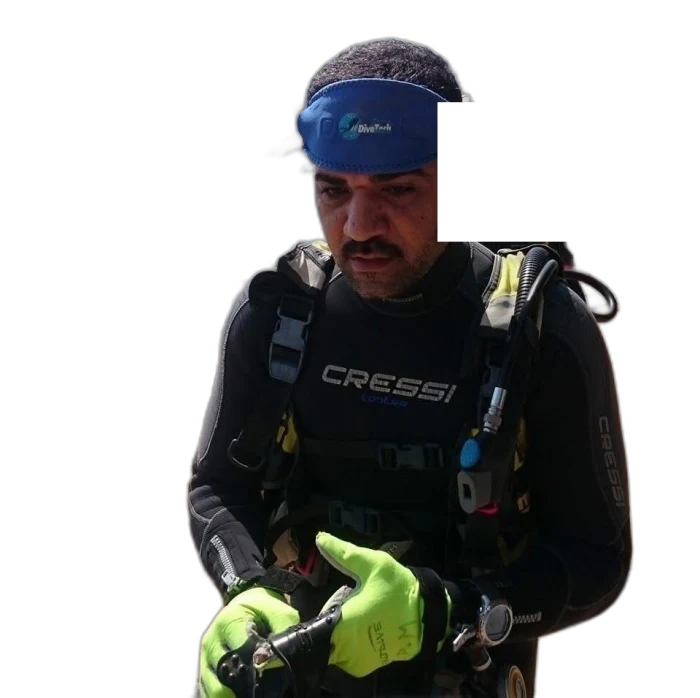
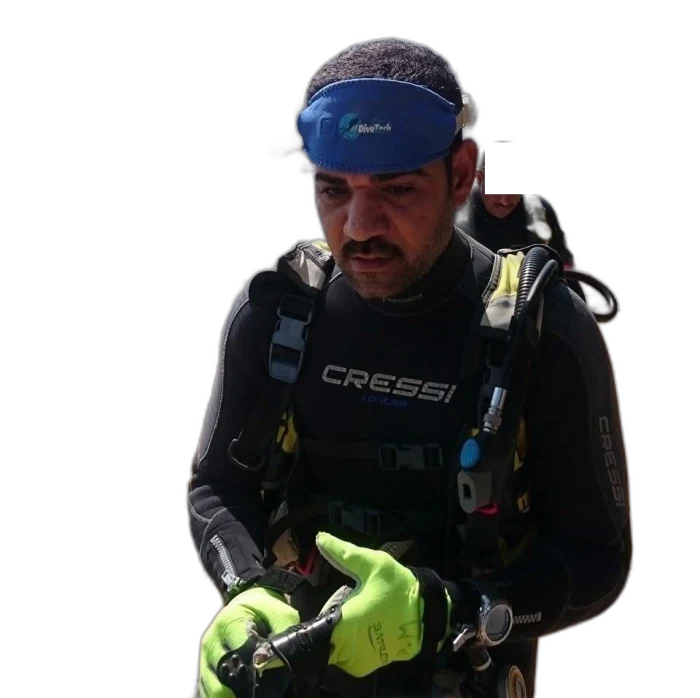
Fix the orbit ring's Osama cutout and rebalance the scene
The cutout had a rectangular hole cut into his own headband and ear:
the earlier crop that erased the second diver from the background was
too generous and clipped Osama himself. Re-ran the segmentation, found
the real, non-overlapping bounds of the second diver's head via a row
by row alpha scan, and masked only that region. His own headband, ear
and buckle are intact now, with an unavoidable few pixels of the
second diver's hair still faintly present at the seam, which is far
less noticeable than a chunk missing from his own face.

Also, per feedback while reviewing the live scene: he was too small
next to the cards, positioned too high, and (for the cards specifically)
sitting too high on the page. Enlarged his box well past the card
width, dropped the whole ring lower (top: 64% instead of 50%), and gave
him a real z-index (50, mid-range against the cards' 0-100 by depth)
so the front half of the ring actually passes in front of him and the
back half recedes behind, instead of every card winning regardless of
depth because he had no z-index at all to compete with. He also now
counter-rotates by -ring-deg so his flat cutout stays camera-facing as
the ring turns, rather than warping edge-on with it.

Changed region(s): [[0.6, 0.1203, 0.81, 0.361]]

diff --git a/src/app/descent.css b/src/app/descent.css
@@ -717,10 +717,14 @@ video[data-sc-scrub].sc-has-clip { opacity: 1; }
   /* the 3D ring, mounted only once JS confirms reduced-motion is off */
   .orbit-3d { position: relative; height: 100%; min-height: 44vh; perspective: clamp(900px, 90vw, 1500px); perspective-origin: 50% 46%; touch-action: pan-y; }
   .orbit-ring { position: absolute; inset: 0; transform-style: preserve-3d; transform: rotateY(var(--ring-deg, 0deg)); will-change: transform; }
-  .orbit-figure { position: absolute; left: 50%; top: 50%; width: clamp(10rem, 22vw, 15rem); transform: translate(-50%, -50%); pointer-events: none; }
+  /* Larger than any card and a fixed mid-range z-index (cards run 0-100 by
+     depth) so the front half of the ring (t > 0.5, z-index > 50) passes in
+     front of him and the back half recedes behind, the crossover landing at
+     the ring's own left/right edge where a card is beside him either way. */
+  .orbit-figure { position: absolute; left: 50%; top: 64%; width: clamp(21rem, 44vw, 36rem); z-index: 50; transform: translate(-50%, -50%); pointer-events: none; }
   .orbit-figure img { width: 100%; height: auto; display: block; filter: drop-shadow(0 26px 46px rgba(11,111,96,0.32)); }
   .orbit-card {
-    position: absolute; left: 50%; top: 50%; width: clamp(8.5rem, 15vw, 12rem);
+    position: absolute; left: 50%; top: 64%; width: clamp(8.5rem, 15vw, 12rem);
     transform: translate(-50%, -50%) translateY(var(--card-rise, 0px))
       rotateY(var(--card-angle)) translateZ(clamp(10rem, 26vw, 19rem)) scale(var(--card-scale, 1));
     display: block; text-decoration: none; color: var(--sc-ink);
@@ -738,6 +742,7 @@ video[data-sc-scrub].sc-has-clip { opacity: 1; }
     .orbit-grid { grid-template-columns: 1fr; }
     .orbit-grid__figure { max-width: 12rem; margin-inline: auto; }
     .orbit-3d { min-height: 52vh; }
+    .orbit-figure { width: clamp(14rem, 58vw, 19rem); }
     .orbit-card { width: clamp(7.5rem, 34vw, 9.5rem); }
     .orbit-card img { height: 5rem; }
   }

diff --git a/src/app/OrbitScene.tsx b/src/app/OrbitScene.tsx
@@ -98,11 +98,16 @@ export default function OrbitScene({ items, osamaSrc, osamaSrcMobile, osamaAlt }
       const deg = rotateP * 360 + dragDeg;
       ring.style.setProperty("--ring-deg", deg.toFixed(2) + "deg");
 
-      // Rule 4: Osama holds the centre, one calm scale-in, no overshoot.
+      // Rule 4: Osama holds the centre, one calm scale-in, no overshoot. He
+      // sits at the ring's rotation axis so its rotateY never moves him on
+      // screen, but he is still that rotateY's CHILD, so without a counter
+      // rotation his flat cutout would turn edge-on and warp as the ring
+      // spins. rotateY(-deg) cancels the parent's rotation so he stays
+      // facing the camera the whole time, still, while everything orbits.
       const figureT = easeOutCubic(Math.min(1, p / INTRO_WINDOW));
       if (figureRef.current) {
         figureRef.current.style.opacity = Math.min(1, figureT * 1.4).toFixed(3);
-        figureRef.current.style.transform = `translate(-50%, -50%) scale(${(0.72 + 0.28 * figureT).toFixed(3)})`;
+        figureRef.current.style.transform = `translate(-50%, -50%) rotateY(${(-deg).toFixed(2)}deg) scale(${(0.72 + 0.28 * figureT).toFixed(3)})`;
       }
 
       const introRatio = Math.min(1, p / INTRO_WINDOW);
